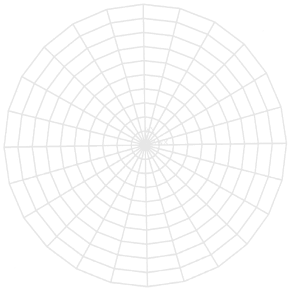
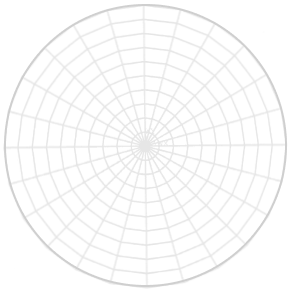
ios-example: added pitch to example with UI improvements

diff --git a/examples/mach1spatial-c/ios/mach1-example/mach1-example/SoundMap.swift b/examples/mach1spatial-c/ios/mach1-example/mach1-example/SoundMap.swift
@@ -34,7 +34,6 @@ class SoundMap: UIView {
     var layerCameraCone = CAShapeLayer()
     var viewsEncoders: [Encoder] = [Encoder]()
     var viewCircle : UIView = UIView()
-    var viewPitch: UIView = UIView()
     
     var selectedEncoder : Int = -1
     var closureSelectEncoder: ((Encoder?) -> ())? = nil
@@ -82,12 +81,10 @@ class SoundMap: UIView {
         imageView.removeFromSuperview()
         viewCameraCone.removeFromSuperview()
         viewCircle.removeFromSuperview()
-        viewPitch.removeFromSuperview()
         
         imageView = UIImageView()
         viewCameraCone = UIView()
         viewCircle = UIView()
-        viewPitch = UIView()
         
         // test border color
         self.layer.masksToBounds = true
@@ -103,6 +100,7 @@ class SoundMap: UIView {
         self.addSubview(imageView)
         
         // background circle
+        /*
         let shapeCircle = UIBezierPath()
         shapeCircle.move(to: CGPoint(x: 141.5, y: 282))
         shapeCircle.addCurve(to: CGPoint(x: 282, y: 141.5), controlPoint1: CGPoint(x: 219.1, y: 282), controlPoint2: CGPoint(x: 282, y: 219.1))
@@ -110,7 +108,7 @@ class SoundMap: UIView {
         shapeCircle.addCurve(to: CGPoint(x: 1, y: 141.5), controlPoint1: CGPoint(x: 63.9, y: 1), controlPoint2: CGPoint(x: 1, y: 63.9))
         shapeCircle.addCurve(to: CGPoint(x: 141.5, y: 282), controlPoint1: CGPoint(x: 1, y: 219.1), controlPoint2: CGPoint(x: 63.9, y: 282))
         shapeCircle.close()
-        
+ 
         var internalOffset : CGAffineTransform = CGAffineTransform.identity.translatedBy(x: -282/2, y: -282/2)
         let circleLayer = CAShapeLayer()
         circleLayer.path = shapeCircle.cgPath.copy(using: &internalOffset) // circleInternalPath.cgPath
@@ -122,7 +120,8 @@ class SoundMap: UIView {
         viewCircle.center = CGPoint(x: self.frame.size.width / 2, y: self.frame.size.height / 2)
         viewCircle.layer.addSublayer(circleLayer)
         self.addSubview(viewCircle)
-        
+         */
+
         // camera cone
         //viewCameraCone.frame = CGRect(x: -60, y: -60, width: 60 * 2, height: 60 * 2)
         viewCameraCone.center = CGPoint(x: self.frame.size.width / 2, y: self.frame.size.height / 2)
@@ -146,22 +145,6 @@ class SoundMap: UIView {
         
         viewCameraCone.layer.addSublayer(layerCameraCone)
         self.addSubview(viewCameraCone)
-        
-        
-        // pitch
-        viewPitch.center = CGPoint(x: self.frame.size.width / 2, y: self.frame.size.height / 2)
-        viewPitch.backgroundColor  = UIColor( red: 0.4, green: 0.4, blue:0.0, alpha: 1.0 )
-        viewPitch.frame = CGRect(x: -60, y: -60, width: 60 * 2, height: 60 * 2)
-        //self.addSubview(viewPitch)
-        
-        let labelInfo = UILabel()
-        labelInfo.frame = CGRect(x: 0, y: 0, width: 108, height: 4)
-        labelInfo.backgroundColor = .white
-        labelInfo.layer.backgroundColor = UIColor(red: 0.67, green: 0.67, blue: 0.67, alpha: 1).cgColor
-        labelInfo.layer.cornerRadius = 4
-        labelInfo.center = CGPoint(x: viewPitch.frame.size.width / 2, y: viewPitch.frame.size.height / 2)
-        viewPitch.addSubview(labelInfo)
-        
     }
     
     override func layoutSubviews() {
@@ -293,8 +276,6 @@ class SoundMap: UIView {
     
     override func draw(_ rect: CGRect) {
         viewCameraCone.layer.sublayerTransform = CATransform3DMakeAffineTransform(CGAffineTransform.identity.rotated(by: CGFloat(rotationAngle)))
-        
-        print(rotationAngle)
     }
     
 }

diff --git a/examples/mach1spatial-c/ios/mach1-example/mach1-example/PitchMeter.swift b/examples/mach1spatial-c/ios/mach1-example/mach1-example/PitchMeter.swift
@@ -1,0 +1,89 @@
+//
+//  SoundMapView.swift
+//  mach1-ios-encodeDecode-example
+//
+//  Created by User on 16/04/2019.
+//  Copyright © 2019 User. All rights reserved.
+//
+
+import Foundation
+import UIKit
+import SceneKit
+import QuartzCore
+
+class PitchMeter: UIView {
+     
+    var meter : Float =  0.0
+    
+    var viewPitch: UIView = UIView()
+    var labelProgress : UILabel = UILabel()
+    
+     required init(coder aDecoder: NSCoder) {
+        super.init(coder: aDecoder)!
+
+        setup()
+    }
+    
+    override init(frame: CGRect) {
+        super.init(frame: frame)
+
+        setup()
+    } 
+    
+    func setup() {
+        recreateView()
+    }
+    
+    
+    func recreateView() {
+        viewPitch.removeFromSuperview()
+        
+        viewPitch = UIView()
+        
+        // test border color
+        self.layer.masksToBounds = true
+        //self.layer.borderColor = UIColor( red: 1.0, green: 0.0, blue:0.0, alpha: 1.0 ).cgColor
+        //self.layer.borderWidth = 1.0
+        
+        // pitch
+        viewPitch.center = CGPoint(x: self.frame.size.width / 2, y: self.frame.size.height / 2)
+        viewPitch.backgroundColor  = UIColor( red: 0.4, green: 0.4, blue:0.0, alpha: 1.0 )
+        
+        self.addSubview(viewPitch)
+        
+        let labelInfo = UILabel()
+        labelInfo.frame = CGRect(x: 0, y: 0, width: 4, height: 100)
+        labelInfo.backgroundColor = UIColor(red: 0.67, green: 0.67, blue: 0.67, alpha: 1)
+        labelInfo.center = CGPoint(x: viewPitch.frame.size.width / 2, y: viewPitch.frame.size.height / 2)
+        viewPitch.addSubview(labelInfo)
+        
+        labelProgress = UILabel()
+        labelProgress.frame = CGRect(x: 0, y: 0, width: 4, height: 1)
+        labelProgress.center = CGPoint(x: viewPitch.frame.size.width / 2, y: viewPitch.frame.size.height / 2)
+        labelProgress.backgroundColor = UIColor(red: 1, green: 0.8, blue: 0.4, alpha: 1)
+        viewPitch.addSubview(labelProgress)
+  
+        let labelZero = UILabel()
+        labelZero.frame = CGRect(x: 0, y: 0, width: 8, height: 1)
+        labelZero.center = CGPoint(x: viewPitch.frame.size.width / 2, y: viewPitch.frame.size.height / 2)
+        labelZero.backgroundColor = UIColor(red: 0.77, green: 0.77, blue: 0.77, alpha: 1)
+        viewPitch.addSubview(labelZero)
+    }
+    
+    override func layoutSubviews() {
+        super.layoutSubviews()
+        
+        recreateView()
+    }
+    
+    func update(meter : Float) {
+        self.meter = meter
+
+        self.setNeedsDisplay()
+    }
+    
+    override func draw(_ rect: CGRect) {
+        labelProgress.transform = (CGAffineTransform.identity.translatedBy(x: 0, y: CGFloat(meter * 50.0 / 2)).scaledBy(x: 1.0, y: CGFloat(meter * 50.0)))
+    }
+    
+}

diff --git a/examples/mach1spatial-c/ios/mach1-example/mach1-example/ViewController.swift b/examples/mach1spatial-c/ios/mach1-example/mach1-example/ViewController.swift
@@ -31,6 +31,7 @@ class ViewController: UIViewController {
     @IBOutlet var volumeSliderControl: UISlider?
     @IBOutlet var heightSliderControl: UISlider?
     @IBOutlet var soundMap: SoundMap?
+    @IBOutlet var pitchMeter: PitchMeter?
     @IBOutlet var labelInfo: UILabel?
 
     @IBAction func VolumeSliderChanged(_ sender: UISlider) {
@@ -162,6 +163,7 @@ class ViewController: UIViewController {
                 self?.cameraRoll = angles.z
                 
                 DispatchQueue.main.async {
+                    self?.pitchMeter?.update(meter: -angles.x / 90)
                     self?.labelInfo?.text = "Yaw: " + String(format: "%.3f", angles.x) + "°" + "\r\n" +
                         "Pitch: " + String(format: "%.3f", angles.y) + "°" + "\r\n" +
                         "Roll: " + String(format: "%.3f", angles.z) + "°"
